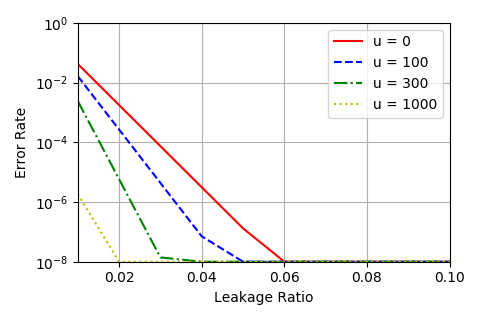
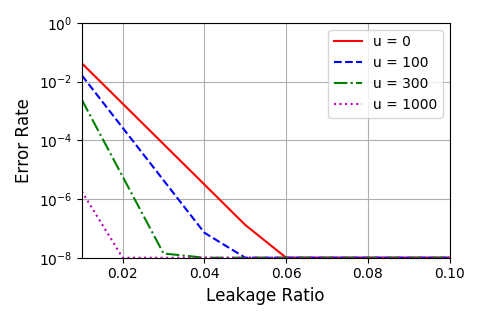
update

diff --git a/MatchTest/non-collusion-result/plot-alloc.py b/MatchTest/non-collusion-result/plot-alloc.py
@@ -16,17 +16,18 @@ ax = fig.add_subplot(111)
 ax.plot(df.loc[df["unique"] == 0]["ratio"], df.loc[df["unique"] == 0]["acc"], 'r-', label='u = 0')
 ax.plot(df.loc[df["unique"] == 100]["ratio"], df.loc[df["unique"] == 100]["acc"], 'b--', label='u = 100')
 ax.plot(df.loc[df["unique"] == 300]["ratio"], df.loc[df["unique"] == 300]["acc"], 'g-.', label='u = 300')
-ax.plot(df.loc[df["unique"] == 1000]["ratio"], df.loc[df["unique"] == 1000]["acc"], 'y:', label='u = 1000')
+ax.plot(df.loc[df["unique"] == 1000]["ratio"], df.loc[df["unique"] == 1000]["acc"], 'm:', label='u = 1000')
 plt.yscale("log")
 plt.ylim(top=1)
 plt.ylim(bottom=0.00000001)
 plt.xlim(left=0.01)
 plt.xlim(right=0.1)
-plt.xlabel("Leakage Ratio")
-plt.ylabel("Error Rate")
+plt.xlabel("Leakage Ratio", fontsize=12)
+plt.ylabel("Error Rate", fontsize=12)
 plt.legend()
 plt.grid(True)
 plt.tight_layout()
+plt.rcParams.update({'font.size': 12})
 fig.savefig('single-leaker-alloc.png', dpi=100)
 
 plt.show()

diff --git a/MatchTest/collusion-alloc-result/plot-alloc.py b/MatchTest/collusion-alloc-result/plot-alloc.py
@@ -16,17 +16,18 @@ ax = fig.add_subplot(111)
 ax.plot(df.loc[df["unique"] == 0]["ratio"], df.loc[df["unique"] == 0]["acc"], 'r-', label='u = 0')
 ax.plot(df.loc[df["unique"] == 100]["ratio"], df.loc[df["unique"] == 100]["acc"], 'b--', label='u = 100')
 ax.plot(df.loc[df["unique"] == 300]["ratio"], df.loc[df["unique"] == 300]["acc"], 'g-.', label='u = 300')
-ax.plot(df.loc[df["unique"] == 1000]["ratio"], df.loc[df["unique"] == 1000]["acc"], 'y:', label='u = 1000')
+ax.plot(df.loc[df["unique"] == 1000]["ratio"], df.loc[df["unique"] == 1000]["acc"], 'm:', label='u = 1000')
 plt.yscale("log")
 plt.ylim(top=1)
 plt.ylim(bottom=0.00000001)
 plt.xlim(left=0.01)
 plt.xlim(right=0.1)
-plt.xlabel("Leakage Ratio")
-plt.ylabel("Error Rate")
+plt.xlabel("Leakage Ratio", fontsize=12)
+plt.ylabel("Error Rate", fontsize=12)
 plt.legend()
 plt.grid(True)
 plt.tight_layout()
+plt.rcParams.update({'font.size': 12})
 fig.savefig('collusion-alloc.png', dpi=100)
 
 plt.show()

diff --git a/MatchTest/sender-leakage-result/plot-alloc.py b/MatchTest/sender-leakage-result/plot-alloc.py
@@ -16,17 +16,18 @@ ax = fig.add_subplot(111)
 ax.plot(df.loc[df["unique"] == 0]["ratio"], df.loc[df["unique"] == 0]["acc"], 'r-', label='u = 0')
 ax.plot(df.loc[df["unique"] == 100]["ratio"], df.loc[df["unique"] == 100]["acc"], 'b--', label='u = 100')
 ax.plot(df.loc[df["unique"] == 300]["ratio"], df.loc[df["unique"] == 300]["acc"], 'g-.', label='u = 300')
-ax.plot(df.loc[df["unique"] == 1000]["ratio"], df.loc[df["unique"] == 1000]["acc"], 'y:', label='u = 1000')
+ax.plot(df.loc[df["unique"] == 1000]["ratio"], df.loc[df["unique"] == 1000]["acc"], 'm:', label='u = 1000')
 plt.yscale("log")
 plt.ylim(top=1)
 plt.ylim(bottom=0.00000001)
 plt.xlim(left=0.01)
 plt.xlim(right=0.1)
-plt.xlabel("Leakage Ratio")
-plt.ylabel("Error Rate")
+plt.xlabel("Leakage Ratio", fontsize=12)
+plt.ylabel("Error Rate", fontsize=12)
 plt.legend()
 plt.grid(True)
 plt.tight_layout()
+plt.rcParams.update({'font.size': 12})
 fig.savefig('sender-alloc.png', dpi=100)
 
 plt.show()

diff --git a/MatchTest/collusion-ratio-result/plot-ratio.py b/MatchTest/collusion-ratio-result/plot-ratio.py
@@ -31,11 +31,12 @@ plt.ylim(top=1)
 plt.ylim(bottom=0.00000001)
 plt.xlim(left=0.01)
 plt.xlim(right=0.1)
-plt.xlabel("Leakage Ratio")
-plt.ylabel("Error Rate")
+plt.xlabel("Leakage Ratio", fontsize=12)
+plt.ylabel("Error Rate", fontsize=12)
 plt.legend()
 plt.grid(True)
 plt.tight_layout()
+plt.rcParams.update({'font.size': 12})
 fig.savefig('collusion-ratio.png', dpi=100)
 
 plt.show()

diff --git a/MatchTest/non-collusion-result/plot-ot.py b/MatchTest/non-collusion-result/plot-ot.py
@@ -21,11 +21,12 @@ plt.ylim(top=1)
 plt.ylim(bottom=0.00000001)
 plt.xlim(left=0.01)
 plt.xlim(right=1)
-plt.xlabel("Leakage Ratio")
-plt.ylabel("Error Rate")
+plt.xlabel("Leakage Ratio", fontsize=12)
+plt.ylabel("Error Rate", fontsize=12)
 plt.legend()
 plt.grid(True)
 plt.tight_layout()
+plt.rcParams.update({'font.size': 12})
 fig.savefig('single-leaker-ot.png', dpi=100)
 
 plt.show()

diff --git a/MatchTest/collusion-ot-result/plot-ot.py b/MatchTest/collusion-ot-result/plot-ot.py
@@ -21,11 +21,12 @@ plt.ylim(top=1)
 plt.ylim(bottom=0.00000001)
 plt.xlim(left=0.02)
 plt.xlim(right=0.1)
-plt.xlabel("Leakage Ratio")
-plt.ylabel("Error Rate")
+plt.xlabel("Leakage Ratio", fontsize=12)
+plt.ylabel("Error Rate", fontsize=12)
 plt.legend()
 plt.grid(True)
 plt.tight_layout()
+plt.rcParams.update({'font.size': 12})
 fig.savefig('collusion-ot.png', dpi=100)
 
 plt.show()

diff --git a/MatchTest/sender-leakage-result/plot-ot.py b/MatchTest/sender-leakage-result/plot-ot.py
@@ -21,11 +21,12 @@ plt.ylim(top=1)
 plt.ylim(bottom=0.00000001)
 plt.xlim(left=0.01)
 plt.xlim(right=1)
-plt.xlabel("Leakage Ratio")
-plt.ylabel("Error Rate")
+plt.xlabel("Leakage Ratio", fontsize=12)
+plt.ylabel("Error Rate", fontsize=12)
 plt.legend()
 plt.grid(True)
 plt.tight_layout()
+plt.rcParams.update({'font.size': 12})
 fig.savefig('sender-ot.png', dpi=100)
 
 plt.show()

diff --git a/MatchTest/non-collusion-result/plot-ratio.py b/MatchTest/non-collusion-result/plot-ratio.py
@@ -19,10 +19,11 @@ plt.ylim(top=1)
 plt.ylim(bottom=0.00000001)
 plt.xlim(left=0.01)
 plt.xlim(right=0.1)
-plt.xlabel("Leakage Ratio")
-plt.ylabel("Error Rate")
+plt.xlabel("Leakage Ratio", fontsize=12)
+plt.ylabel("Error Rate", fontsize=12)
 plt.grid(True)
 plt.tight_layout()
+plt.rcParams.update({'font.size': 12})
 fig.savefig('single-leaker-ratio.png', dpi=100)
 
 plt.show()

diff --git a/MatchTest/sender-leakage-result/plot-ratio.py b/MatchTest/sender-leakage-result/plot-ratio.py
@@ -19,10 +19,11 @@ plt.ylim(top=1)
 plt.ylim(bottom=0.00000001)
 plt.xlim(left=0.01)
 plt.xlim(right=0.1)
-plt.xlabel("Leakage Ratio")
-plt.ylabel("Error Rate")
+plt.xlabel("Leakage Ratio", fontsize=12)
+plt.ylabel("Error Rate", fontsize=12)
 plt.grid(True)
 plt.tight_layout()
+plt.rcParams.update({'font.size': 12})
 fig.savefig('sender-ratio.png', dpi=100)
 
 plt.show()
